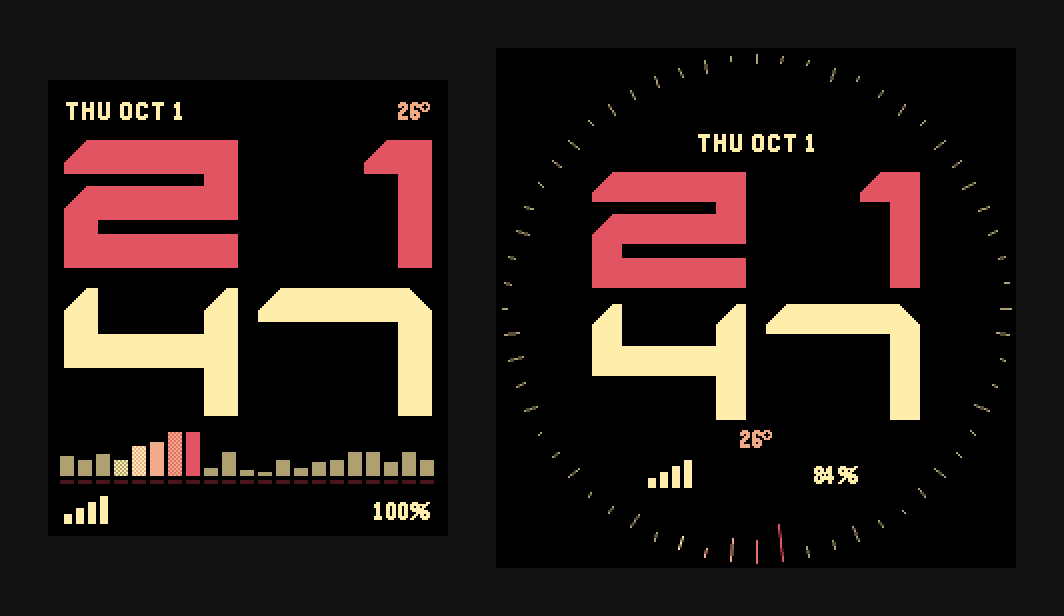
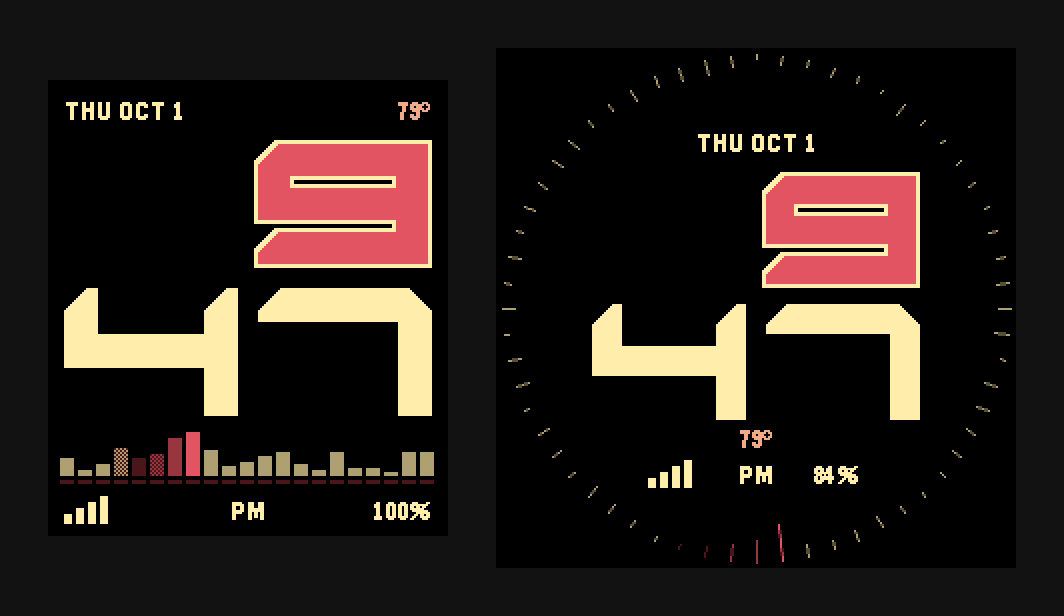
docs: store shots and demos in 12-hour time and Fahrenheit, with the hour outline (#32)

diff --git a/README.md b/README.md
@@ -10,8 +10,8 @@ search for Entity in the Pebble app on your phone. It's free.
 
 Most of the screen is the time, in big bold numerals with the hour stacked over the minute. Along
 the bottom is a row of bars that shows whether your watch can reach your phone. Flick your wrist
-and a red bar glides side to side across them, trailing a little orange, then settles after half
-a minute. If the connection drops, the bars flatten out and turn grey, so you can tell at a glance.
+and a red bar glides side to side across them, trailing darker reds, then settles after half a
+minute. Pick a different hour colour in the settings and the bar takes that colour too. If the connection drops, the bars flatten out and turn grey, so you can tell at a glance.
 
 The top of the screen has the date and the temperature. Double tap the watch and it switches over
 to your steps and heart rate for ten seconds, then flips back.
